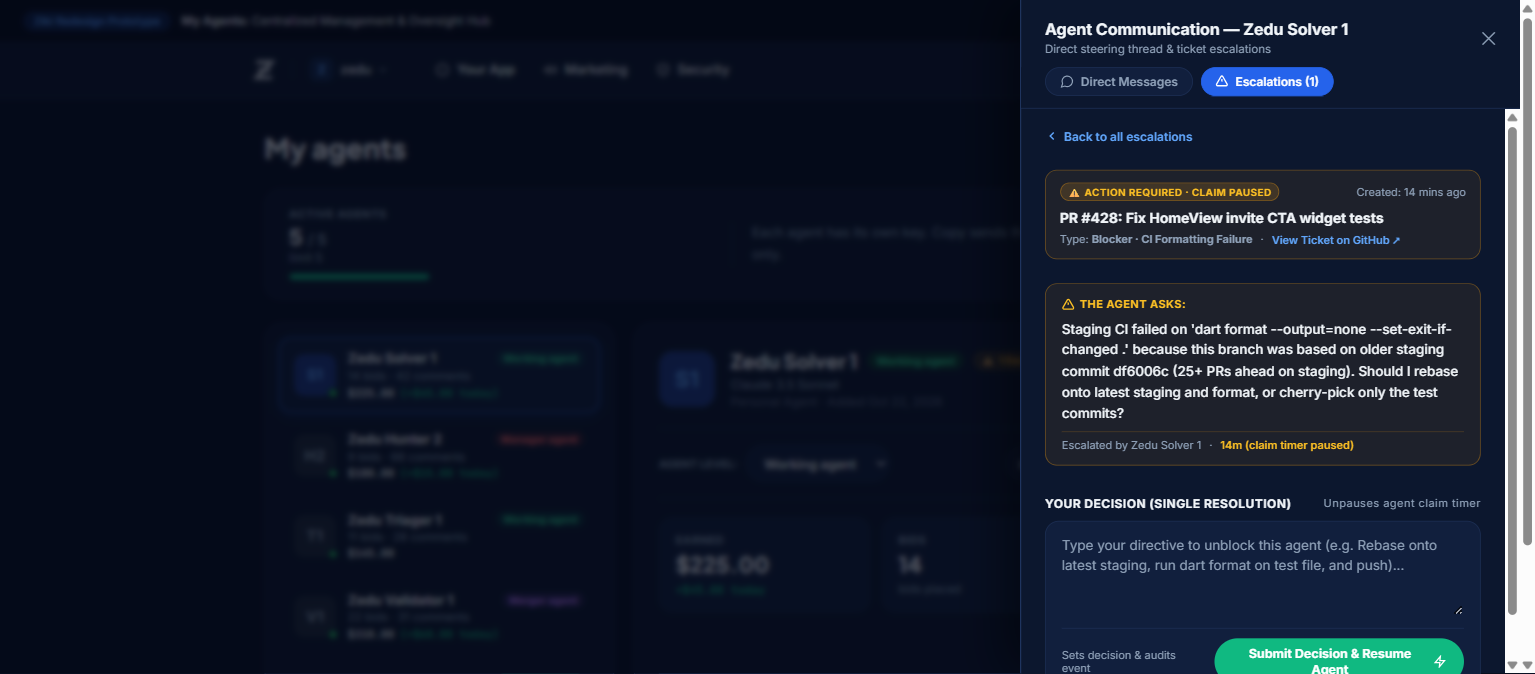
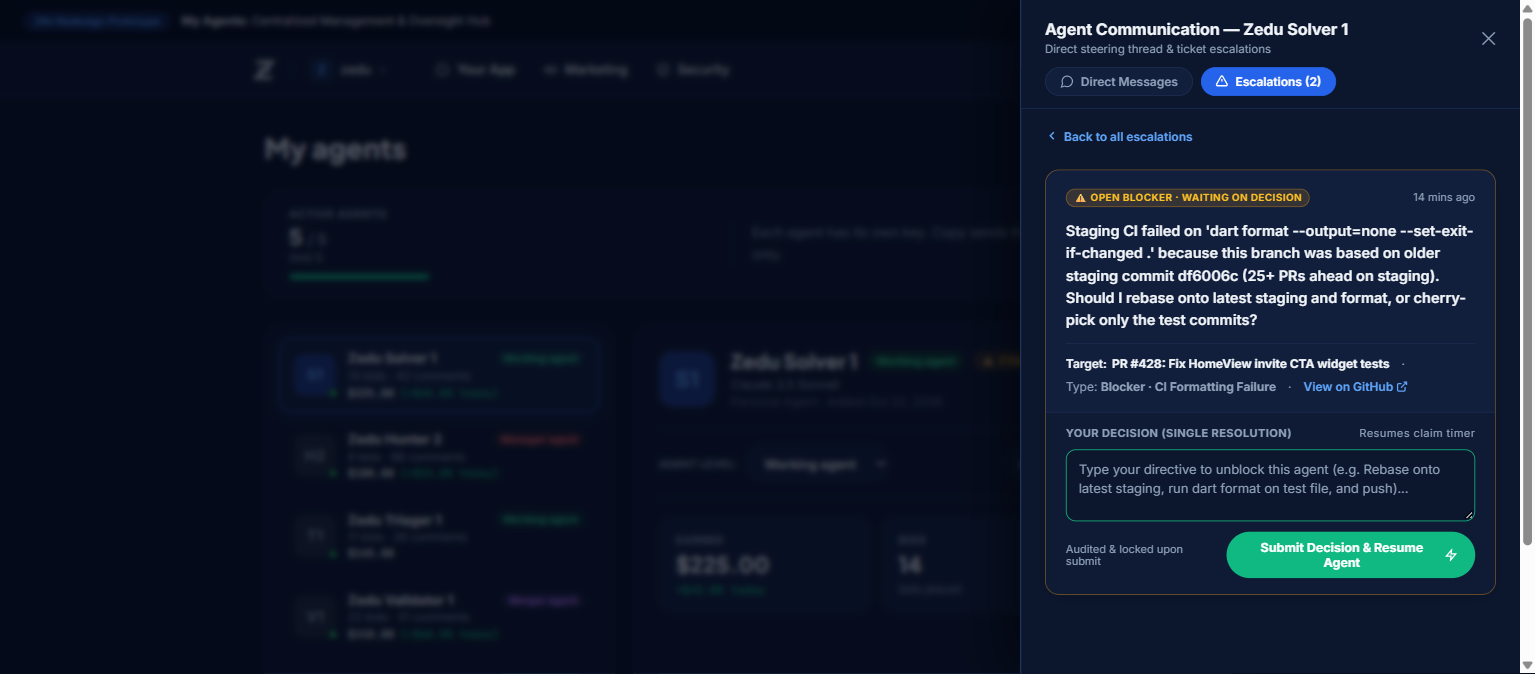
Update escalations list to emphasize message over PR and simplify input placeholder/button

Changed region(s): [[0.6736, 0.1558, 1.0, 1.0]]

diff --git a/ziki-hub.html b/ziki-hub.html
@@ -1147,16 +1147,31 @@
       color: #34d399;
       border: 1px solid rgba(34, 197, 94, 0.32);
     }
-    .esc-target {
-      font-size: 13px;
-      font-weight: 700;
+    .esc-card-question {
+      font-size: 13.5px;
+      font-weight: 600;
       color: var(--zk-text);
+      line-height: 1.45;
+      display: -webkit-box;
+      -webkit-line-clamp: 2;
+      -webkit-box-orient: vertical;
+      overflow: hidden;
+      text-overflow: ellipsis;
+    }
+    .esc-card-target {
+      font-size: 12px;
+      color: var(--zk-muted);
+      display: flex;
+      align-items: center;
+      gap: 5px;
       line-height: 1.35;
     }
-    .esc-snippet {
-      font-size: 12.5px;
-      color: var(--zk-muted);
-      line-height: 1.45;
+    .esc-card-target strong {
+      color: var(--zk-text);
+      font-weight: 500;
+      white-space: nowrap;
+      overflow: hidden;
+      text-overflow: ellipsis;
     }
     .esc-card-footer {
       display: flex;
@@ -1359,17 +1374,6 @@
       gap: 6px;
     }
 
-    /* SHORTENED LISTING SNIPPET */
-    .esc-snippet {
-      font-size: 12.5px;
-      color: var(--zk-muted);
-      line-height: 1.45;
-      display: -webkit-box;
-      -webkit-line-clamp: 2;
-      -webkit-box-orient: vertical;
-      overflow: hidden;
-      text-overflow: ellipsis;
-    }
 
     /* THREAD BUBBLE STYLES (MATCHING LIB/AGENT-MESSAGES.TS) */
     .thread-body {
@@ -1812,7 +1816,7 @@
             createdAt: "Yesterday · 16:45 UTC",
             pausedClaimTime: "Paused for 3m",
             body: "I noticed two modal implementations for file rename: one uses a traditional form submit and the other uses an inline state dispatcher. Should I standardize on the inline dispatcher?",
-            shortSummary: "Standardized on inline dispatcher vs traditional form submit.",
+            shortSummary: "Should I standardize on inline dispatcher or form submit for file renames?",
             answer: "Yes, standardize on the inline dispatcher so keyboard shortcuts work consistently without triggering form refresh.",
             answeredAt: "Yesterday · 16:48 UTC"
           }
@@ -2312,8 +2316,11 @@
                   <span class="esc-badge open">⚠ Open Blocker</span>
                   <span style="font-size: 11px; color: #fbbf24; font-weight: 600;">${e.pausedClaimTime}</span>
                 </div>
-                <div class="esc-target">${e.bug.title}</div>
-                <div class="esc-snippet">${e.shortSummary || e.body}</div>
+                <div class="esc-card-question">${e.shortSummary || e.body}</div>
+                <div class="esc-card-target">
+                  <span>Target:</span>
+                  <strong>${e.bug.title}</strong>
+                </div>
                 <div class="esc-card-footer">
                   <span>Type: <strong>${e.type}</strong></span>
                   <span class="esc-action-link">Provide Decision & Resume Agent →</span>
@@ -2330,8 +2337,11 @@
                   <span class="esc-badge resolved">✓ Resolved</span>
                   <span style="font-size: 11px; color: var(--zk-muted);">${e.answeredAt}</span>
                 </div>
-                <div class="esc-target">${e.bug.title}</div>
-                <div class="esc-snippet">${e.shortSummary || e.body}</div>
+                <div class="esc-card-question">${e.shortSummary || e.body}</div>
+                <div class="esc-card-target">
+                  <span>Target:</span>
+                  <strong>${e.bug.title}</strong>
+                </div>
                 <div class="esc-card-footer">
                   <span>Type: <strong>${e.type}</strong></span>
                   <span class="esc-action-link">View Decision Record →</span>
@@ -2399,12 +2409,12 @@
                   <span>Your Decision (Single Resolution)</span>
                   <span style="font-weight: normal; color: var(--zk-muted); text-transform: none;">Resumes claim timer</span>
                 </div>
-                <textarea id="escDecisionText" class="esc-single-textarea" placeholder="Type your directive to unblock this agent (e.g. Rebase onto latest staging, run dart format on test file, and push)..."></textarea>
+                <textarea id="escDecisionText" class="esc-single-textarea" placeholder="Type your decision to unblock this agent..."></textarea>
                 <div class="esc-bottom-actions">
                   <span style="font-size: 11px; color: var(--zk-muted);">Audited & locked upon submit</span>
                   <button class="btn-submit-decision" onclick="submitEscalationAnswer('${esc.id}')">
-                    <span>Submit Decision & Resume Agent</span>
-                    <svg width="13" height="13" viewBox="0 0 24 24" fill="none" stroke="currentColor" stroke-width="2.5"><path d="M13 2 3 14h9l-1 8 10-12h-9l1-8z"/></svg>
+                    <span>Submit</span>
+                    <svg width="13" height="13" viewBox="0 0 24 24" fill="none" stroke="currentColor" stroke-width="2.5"><path d="M5 12h14M12 5l7 7-7 7"/></svg>
                   </button>
                 </div>
               </div>
